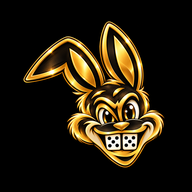
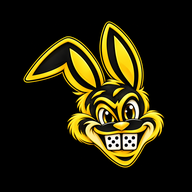
Add files via upload

Changed region(s): [[0.125, 0.0938, 0.875, 0.875]]

diff --git a/dominoes/src/version.js b/dominoes/src/version.js
@@ -1,4 +1,4 @@
 // The version shown at the bottom of the lobby. Bumped with every delivery,
 // so a glance at the lobby tells you whether the newest code is live.
-export const VERSION = 'v1.51'
-export const VERSION_NOTE = 'Yellow lobby logo'
+export const VERSION = 'v1.52'
+export const VERSION_NOTE = 'Yellow app icon'
